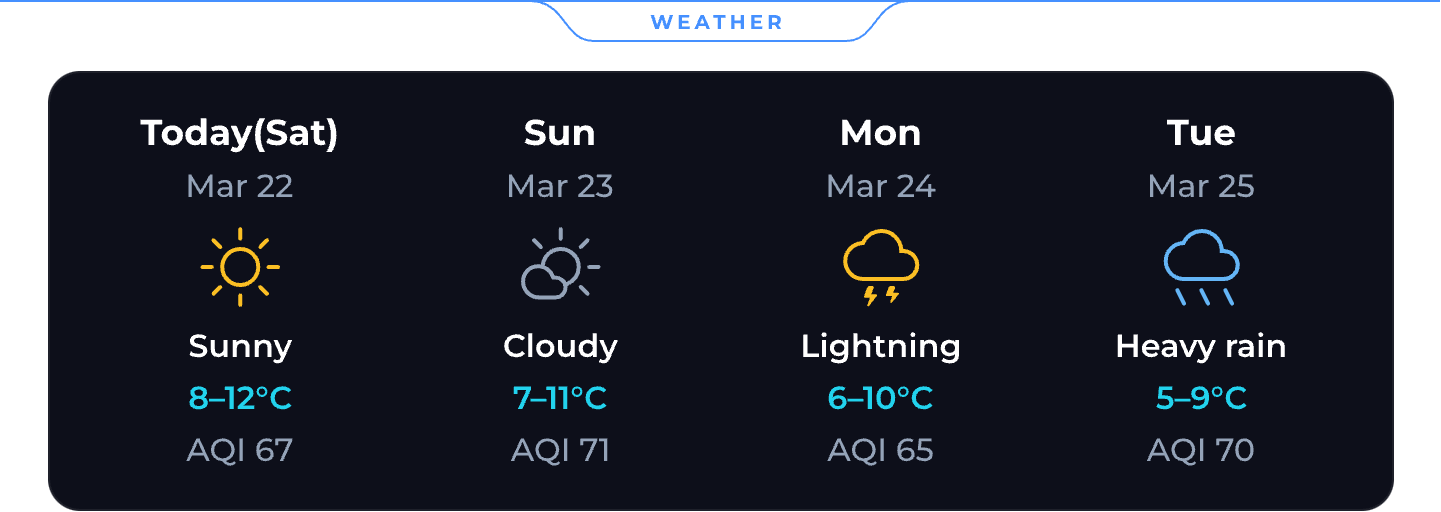
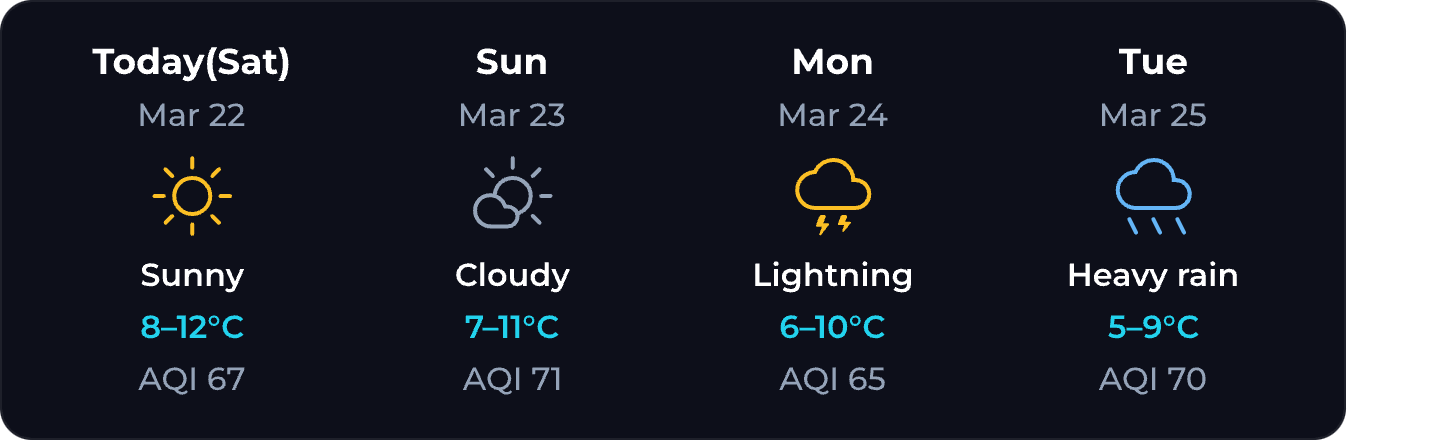
Remove separators from Pencil, re-export PNGs, remove image clip hack
Separators deleted from .pen file, images re-exported without them.
HTML separators are now the only ones visible — no more clipping needed.

diff --git a/index.html b/index.html
@@ -510,7 +510,6 @@ body{
 .section-slash{
   display:flex;align-items:center;
   height:20px;padding:0 24px;gap:6px;
-  margin-bottom:-20px;position:relative;z-index:2;
 }
 .section-slash::before,.section-slash::after{
   content:'';flex:1;height:1px;background:#4590ff;
@@ -521,8 +520,6 @@ body{
   text-transform:uppercase;flex-shrink:0;
 }
 .section-img-clip{
-  clip-path:inset(36px 0 0 0);
-  margin-top:-36px;
 }
 
 /* ── Footer ── */
